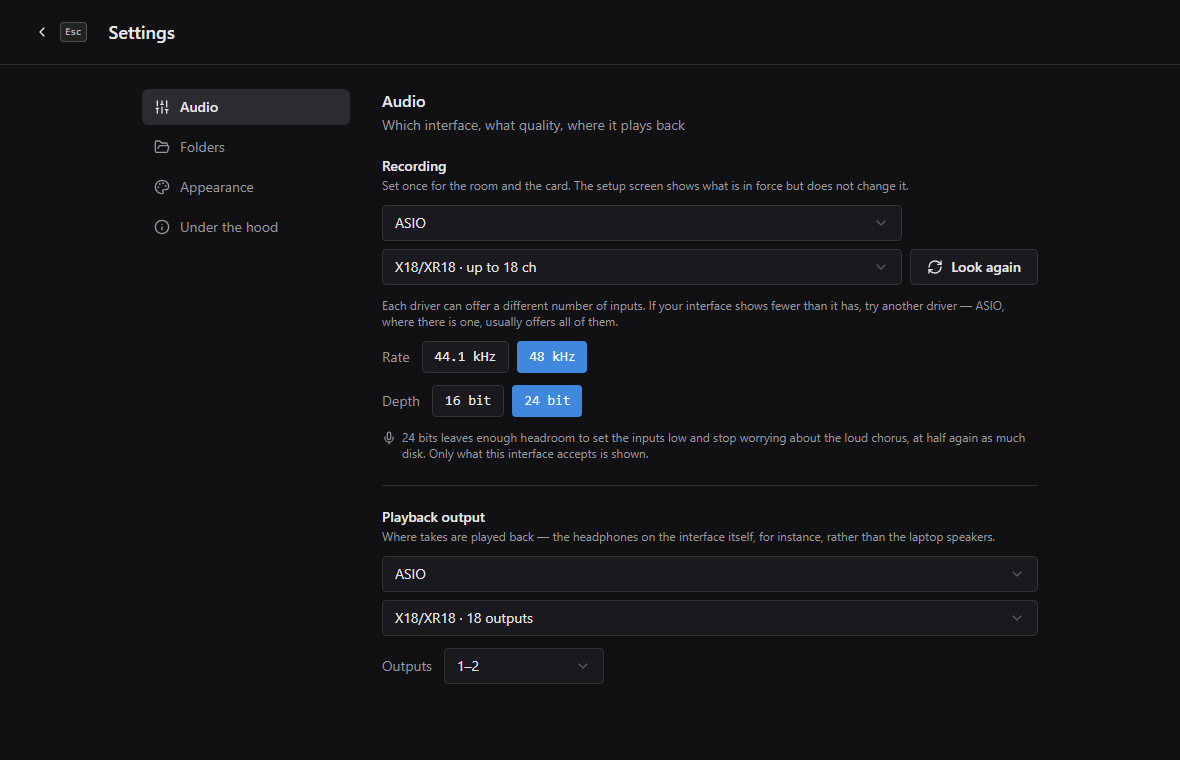
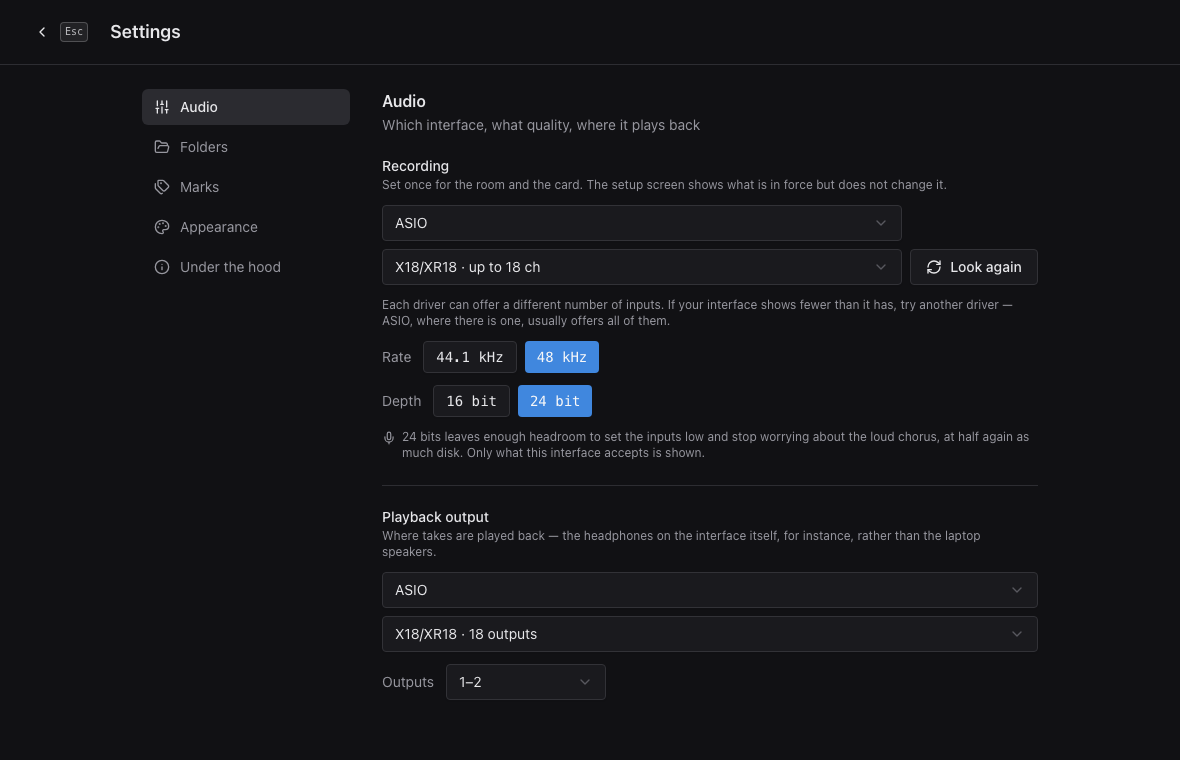
Settings' picture has its five groups, and Marks has a picture of its own
The pictures retaken for the new name left Settings out, so it still showed
four groups. The labels' counts in the new picture are the demo band's own
marks: the fake counts the marks of its own history, which the band's
replaces.

Closes #16.

diff --git a/tests/docs_screenshots.py b/tests/docs_screenshots.py
@@ -53,6 +53,17 @@ VIEWPORT = {"width": 1180, "height": 820}
 # are replaced on the bridge MOCK made.
 BAND = (PROJECT / "ui" / "e2e" / "band.js").read_text(encoding="utf-8")
 
+# Settings › Marks counts every mark in the library; the fake counts the
+# marks of its own history, which the band's replaces. So the counts are the
+# band's: the marks on its rehearsals.
+COUNTED = """
+const labelsOf = api.list_labels;
+api.list_labels = async () => {
+  const marks = Object.keys(PAST).flatMap(f => pastTakes(f)).flatMap(t => t.markers);
+  return (await labelsOf()).map(l => ({...l, marks: marks.filter(m => m.label_id === l.id).length}));
+};
+"""
+
 # An unsaved take waiting at startup: set before MOCK, which reads it once.
 DRAFTS = """window.__DRAFTS__ = [{dir:'/rec/tue/_drafts/take 5', name:'take 5',
   tracks:['Drums','Bass','Guitar','Vocals'], duration_sec:214,
@@ -63,7 +74,7 @@ DRAFTS = """window.__DRAFTS__ = [{dir:'/rec/tue/_drafts/take 5', name:'take 5',
 # How tall the window is for each picture: tall enough for all four tracks
 # where there is a player, and no taller than the screen needs elsewhere,
 # so a picture is not half empty.
-HEIGHT = {"unsaved-takes": 420, "setup": 910, "settings": 760, "rehearsal": 770,
+HEIGHT = {"unsaved-takes": 420, "setup": 910, "settings": 760, "marks": 420, "rehearsal": 770,
           "recording": 720, "review": 1040, "player": 1040, "zoom": 1040,
           "history": 820}
 
@@ -105,14 +116,14 @@ def main():
         browser = p.chromium.launch()
 
         page = browser.new_page(viewport=VIEWPORT)
-        page.add_init_script(DRAFTS + MOCK + BAND)
+        page.add_init_script(DRAFTS + MOCK + BAND + COUNTED)
         page.goto(server.base_url, wait_until="networkidle")
         page.wait_for_selector("text=Unsaved takes found")
         shoot(page, "unsaved-takes")
         page.close()
 
         page = browser.new_page(viewport=VIEWPORT)
-        page.add_init_script(MOCK + BAND)
+        page.add_init_script(MOCK + BAND + COUNTED)
         page.goto(server.base_url, wait_until="networkidle")
         page.wait_for_selector("text=Start rehearsal")
         page.fill("#rehearsal-name", "Tuesday jam")
@@ -125,6 +136,10 @@ def main():
         page.wait_for_selector("text=Playback output")
         page.wait_for_timeout(500)
         shoot(page, "settings")
+        page.get_by_role("button", name="Marks", exact=True).first.click()
+        page.wait_for_selector("text=What a moment in a take can be marked with")
+        page.wait_for_timeout(400)
+        shoot(page, "marks")
         page.keyboard.press("Escape")
         page.wait_for_selector("text=Start rehearsal")
         # The setup screen starts again from the date when it comes back.
@@ -174,7 +189,7 @@ def main():
         page.close()
 
         page = browser.new_page(viewport=VIEWPORT)
-        page.add_init_script(MOCK + BAND)
+        page.add_init_script(MOCK + BAND + COUNTED)
         page.goto(server.base_url, wait_until="networkidle")
         page.wait_for_selector("text=Start rehearsal")
         page.click("text=History")

diff --git a/docs/using-it.md b/docs/using-it.md
@@ -608,6 +608,8 @@ and *Do again* to start with. In **Settings → Marks** you can make your own
 another colour from the palette of eight, drag them into another order and
 delete them.
 
+![Settings → Marks: the four labels a library starts with, each with its colour and how many marks have it](screenshots/marks.png)
+
 - The order is the order of the buttons when you mark a moment, and a new
   mark gets the first label.
 - Renaming or recolouring a label changes every mark that has it, in every
